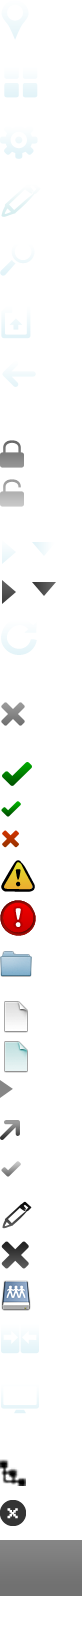
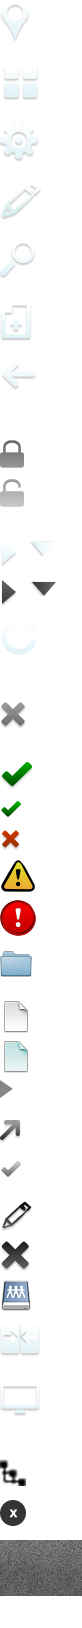
Correct gray-noise sprite and add retina resized images

diff --git a/lib/public/css/outputswitch.css b/lib/public/css/outputswitch.css
@@ -19,7 +19,6 @@
   box-sizing: border-box;
   background: #000 url("../img/icons.png") repeat-x 0px -770px;
   margin: 5px 0;
-  border: 1px solid #666;
   -webkit-border-radius: 3px;
   border-radius: 3px;
 }
@@ -68,7 +67,7 @@
   -webkit-box-sizing: border-box;
   -moz-box-sizing: border-box;
   box-sizing: border-box;
-  padding: 0px 3px 0px 4px;
+  padding: 1px 3px 0px 4px;
   overflow: hidden;
   cursor: pointer;
   height: 19px;

diff --git a/lib/public/css/resizer.css b/lib/public/css/resizer.css
@@ -18,6 +18,13 @@
   height: 50px;
   top: 250px;
   left: 2px;
+  -webkit-background-size: 7px;
+  background-size: 7px;
+}
+@media (-webkit-min-device-pixel-ratio:2), (min-device-pixel-ratio:2) {
+  .resizer.resizer-horizontal > .inner > .thumb {
+    background-image: url("../img/resizer_h@2x.png");
+  }
 }
 .no-sidebar .resizer.resizer-horizontal {
   display: none;
